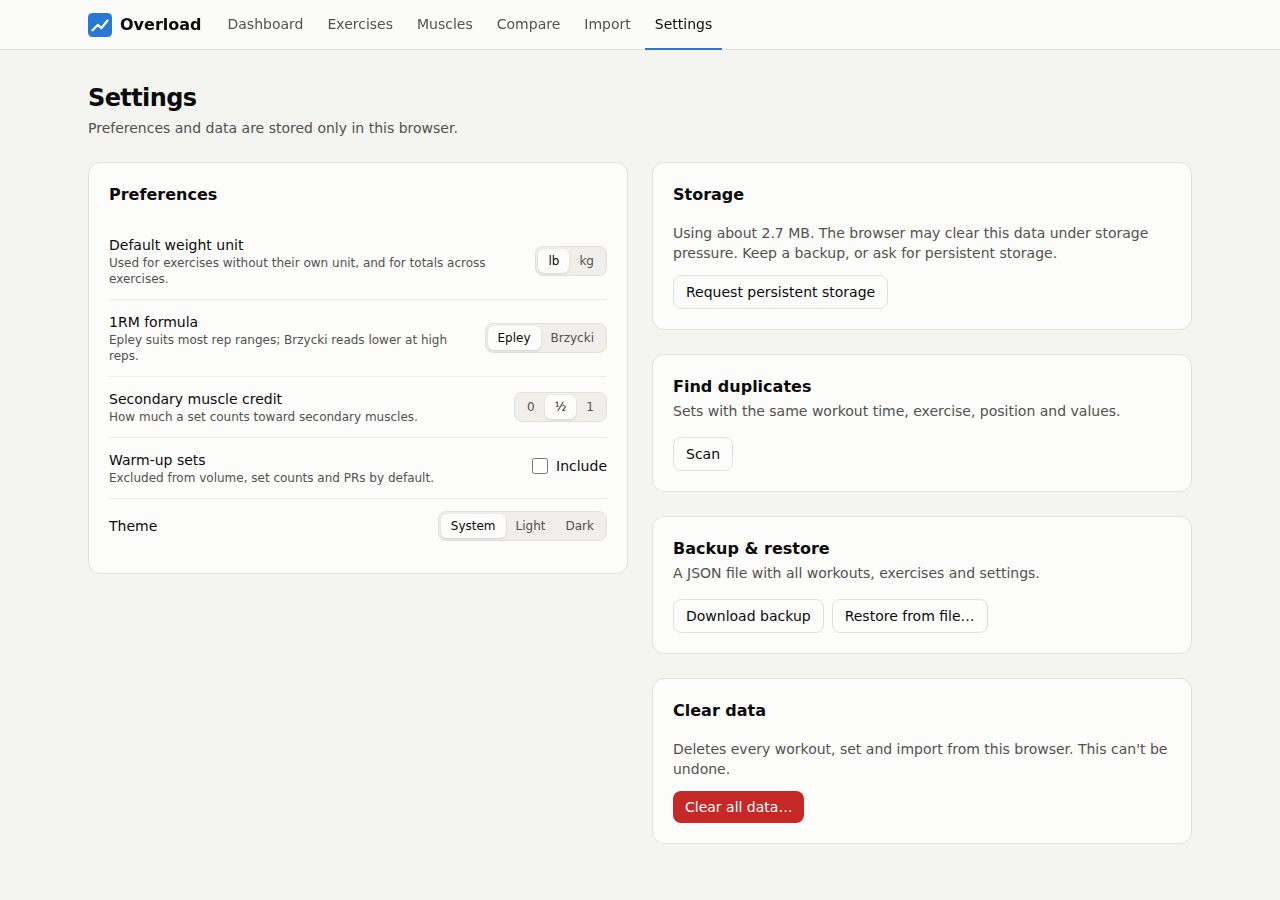
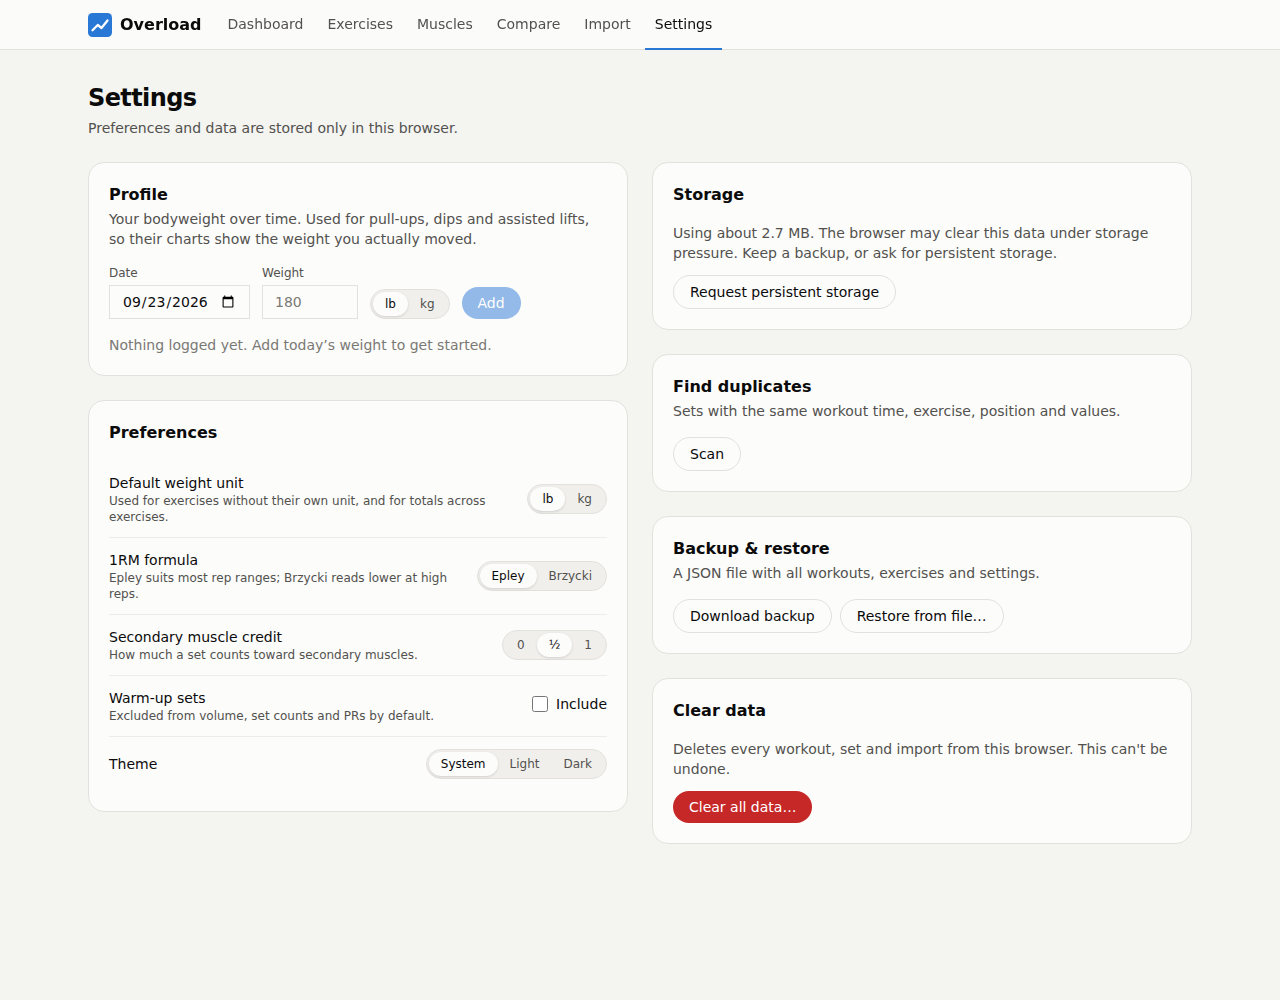
Stop mobile side-scroll, round the UI, move bodyweight into a Profile section
Three fixes:

- Dashboard and Import scrolled sideways on a phone. Two separate causes, both found by
  measuring rather than guessing: grid and flex children default to min-width:auto, so a
  card holding a wide table refused to shrink and pushed the page out; and a screen-reader
  column label, positioned absolutely with no positioned ancestor, escaped its table's
  scroll container and widened the document. Cards are now min-w-0 and the table scroller
  establishes a containing block. Compare overflowed by a few pixels for the same
  min-width reason and is fixed too. All six pages now sit at exactly 390px on a phone.
- Rounder throughout: cards, tiles, dialogs and callouts take a larger radius, and
  buttons, segmented controls, chips and form controls are pills.
- Bodyweight belongs to you rather than to any workout, so it has moved off the dashboard
  into a new Profile section at the top of Settings. The dashboard's stalled-lift list
  takes the full width it vacated.

Claude-Session: https://claude.ai/code/session_01AWoBy98a8NvHr3Bq7afczC

diff --git a/src/components/settings/ProfileCard.tsx b/src/components/settings/ProfileCard.tsx
@@ -1,22 +1,23 @@
 import { useState } from 'react';
-import { db } from '../db/db';
-import { deleteBodyweight, saveBodyweight } from '../db/repo';
-import { bodyweightChange, type BodyweightEntry } from '../domain/bodyweight';
-import { formatDate, toLocalString } from '../domain/dates';
-import type { Unit } from '../domain/types';
-import { formatNumber } from '../domain/units';
-import { useBodyweights, useSettings } from '../hooks/useData';
-import { SERIES_COLORS } from '../lib/colors';
-import { TrendChart } from './charts';
-import { Button, Card, Muted, Segmented, TextInput } from './ui';
+import { db } from '../../db/db';
+import { deleteBodyweight, saveBodyweight } from '../../db/repo';
+import { bodyweightChange, type BodyweightEntry } from '../../domain/bodyweight';
+import { formatDate, toLocalString } from '../../domain/dates';
+import type { Unit } from '../../domain/types';
+import { formatNumber } from '../../domain/units';
+import { useBodyweights, useSettings } from '../../hooks/useData';
+import { SERIES_COLORS } from '../../lib/colors';
+import { TrendChart } from '../charts';
+import { Button, Card, Muted, Segmented, TextInput } from '../ui';
 
 const today = () => toLocalString(new Date()).slice(0, 10);
 
 /**
- * Logging bodyweight is what lets pull-ups, dips and assisted work report the load
- * actually moved, instead of only the plate hanging off you.
+ * Bodyweight belongs to you rather than to any workout, so it lives in settings. It is
+ * what lets pull-ups, dips and assisted work report the load actually moved, instead of
+ * only the plate hanging off you.
  */
-export function BodyweightCard() {
+export function ProfileCard() {
   const log = useBodyweights();
   const settings = useSettings();
   const [date, setDate] = useState(today);
@@ -38,8 +39,8 @@ export function BodyweightCard() {
 
   return (
     <Card
-      title="Bodyweight"
-      subtitle="Used for pull-ups, dips and assisted lifts, so their charts show the weight you actually moved."
+      title="Profile"
+      subtitle="Your bodyweight over time. Used for pull-ups, dips and assisted lifts, so their charts show the weight you actually moved."
       actions={
         summary && (
           <span className="tabular text-sm text-ink-2">

diff --git a/src/pages/DashboardPage.tsx b/src/pages/DashboardPage.tsx
@@ -1,7 +1,6 @@
 import { useMemo } from 'react';
 import { StackedBars } from '../components/charts';
 import { NoDataPage } from '../components/NoDataPage';
-import { BodyweightCard } from '../components/BodyweightCard';
 import { PrList } from '../components/PrList';
 import { StalledLifts } from '../components/StalledLifts';
 import { SampleDataBanner } from '../components/SampleDataBanner';
@@ -136,7 +135,7 @@ export default function DashboardPage() {
 
       <div className="grid items-start gap-6 lg:grid-cols-5">
         <Card
-          className="lg:col-span-3"
+          className="min-w-0 lg:col-span-3"
           title="Weekly training"
           subtitle={metric === 'volume' ? `Volume in ${unit}, assisted lifts excluded` : undefined}
           actions={
@@ -161,7 +160,11 @@ export default function DashboardPage() {
           />
         </Card>
 
-        <Card className="lg:col-span-2" title="Recent PRs" subtitle="Beats your previous best">
+        <Card
+          className="min-w-0 lg:col-span-2"
+          title="Recent PRs"
+          subtitle="Beats your previous best"
+        >
           <PrList
             prs={prs}
             limit={12}
@@ -171,16 +174,8 @@ export default function DashboardPage() {
         </Card>
       </div>
 
-      <div className="mt-6 grid items-start gap-6 lg:grid-cols-5">
-        <div className="lg:col-span-3">
-          <StalledLifts
-            lifts={stalled}
-            unitFor={(name) => exerciseUnit(exercises.get(name), unit)}
-          />
-        </div>
-        <div className="lg:col-span-2">
-          <BodyweightCard />
-        </div>
+      <div className="mt-6">
+        <StalledLifts lifts={stalled} unitFor={(name) => exerciseUnit(exercises.get(name), unit)} />
       </div>
     </>
   );

diff --git a/src/pages/SettingsPage.tsx b/src/pages/SettingsPage.tsx
@@ -4,6 +4,7 @@ import { ClearDataCard } from '../components/settings/ClearDataCard';
 import { DuplicatesCard } from '../components/settings/DuplicatesCard';
 import { FormatsCard } from '../components/settings/FormatsCard';
 import { PreferencesCard } from '../components/settings/PreferencesCard';
+import { ProfileCard } from '../components/settings/ProfileCard';
 import { StorageCard } from '../components/settings/StorageCard';
 import { PageHeader } from '../components/ui';
 
@@ -15,8 +16,11 @@ export default function SettingsPage() {
         subtitle="Preferences and data are stored only in this browser."
       />
       <div className="grid items-start gap-6 lg:grid-cols-2">
-        <PreferencesCard />
-        <div className="space-y-6">
+        <div className="min-w-0 space-y-6">
+          <ProfileCard />
+          <PreferencesCard />
+        </div>
+        <div className="min-w-0 space-y-6">
           <StorageCard />
           <FormatsCard />
           <AliasesCard />

diff --git a/src/components/ui/Feedback.tsx b/src/components/ui/Feedback.tsx
@@ -73,7 +73,7 @@ export function Callout({
   return (
     <div
       role={tone === 'critical' || tone === 'warning' ? 'alert' : 'status'}
-      className={cx('flex gap-3 rounded-lg border p-3 text-sm', t.box, className)}
+      className={cx('flex gap-3 rounded-xl border p-3 text-sm', t.box, className)}
     >
       <StatusIcon tone={tone} className={cx('mt-0.5', t.icon)} />
       <div className="min-w-0">
@@ -86,7 +86,7 @@ export function Callout({
 
 export function EmptyState({ title, children }: { title: string; children?: ReactNode }) {
   return (
-    <div className="rounded-xl border border-dashed border-border bg-surface p-10 text-center">
+    <div className="rounded-2xl border border-dashed border-border bg-surface p-10 text-center">
       <h2 className="text-base font-semibold text-ink">{title}</h2>
       {children && <div className="mt-2 text-sm text-ink-2">{children}</div>}
     </div>

diff --git a/src/components/ui/Segmented.tsx b/src/components/ui/Segmented.tsx
@@ -21,7 +21,7 @@ export function Segmented<T extends string>({
     <div
       role="radiogroup"
       aria-label={label}
-      className="inline-flex flex-wrap rounded-lg border border-border bg-surface-2 p-0.5"
+      className="inline-flex flex-wrap rounded-full border border-border bg-surface-2 p-0.5"
     >
       {options.map((o) => (
         <button
@@ -34,7 +34,7 @@ export function Segmented<T extends string>({
             onChange(o.id);
           }}
           className={cx(
-            'focus-ring rounded-md px-2.5 py-1 text-xs font-medium transition-colors disabled:opacity-40',
+            'focus-ring rounded-full px-3 py-1 text-xs font-medium transition-colors disabled:opacity-40',
             value === o.id ? 'bg-surface text-ink shadow-sm' : 'text-ink-2 hover:text-ink',
           )}
         >

diff --git a/src/components/ui/buttonClasses.ts b/src/components/ui/buttonClasses.ts
@@ -12,7 +12,7 @@ const VARIANTS: Record<ButtonVariant, string> = {
 /** Class list for button-looking elements that aren't <button> (e.g. file-picker labels). */
 export function buttonClasses(variant: ButtonVariant = 'secondary', className?: string): string {
   return cx(
-    'focus-ring inline-flex cursor-pointer items-center justify-center gap-1.5 rounded-lg px-3 py-1.5 text-sm font-medium transition-colors',
+    'focus-ring inline-flex cursor-pointer items-center justify-center gap-1.5 rounded-full px-4 py-1.5 text-sm font-medium transition-colors',
     'disabled:cursor-not-allowed disabled:opacity-50',
     VARIANTS[variant],
     className,

diff --git a/src/components/ui/DataTable.tsx b/src/components/ui/DataTable.tsx
@@ -25,8 +25,10 @@ export function DataTable<T>({
   stickyHeader?: boolean;
   empty?: ReactNode;
 }) {
+  // `relative` keeps absolutely positioned cell content (screen-reader labels) inside the
+  // scroller; without it they escape to the page and widen it.
   return (
-    <div className="overflow-x-auto">
+    <div className="relative overflow-x-auto">
       <table className="w-full text-sm" style={minWidth ? { minWidth } : undefined}>
         <thead className={cx(stickyHeader && 'sticky top-0 bg-surface')}>
           <tr className="border-b border-border text-left text-xs text-ink-2">

diff --git a/src/components/ui/FilePicker.tsx b/src/components/ui/FilePicker.tsx
@@ -60,7 +60,7 @@ export function FileDropzone({
         if (file) picker.onFile(file);
       }}
       className={cx(
-        'flex cursor-pointer flex-col items-center justify-center rounded-lg border-2 border-dashed px-6 py-10 text-center transition-colors focus-within:border-accent',
+        'flex cursor-pointer flex-col items-center justify-center rounded-2xl border-2 border-dashed px-6 py-10 text-center transition-colors focus-within:border-accent',
         dragging ? 'border-accent bg-accent/5' : 'border-border hover:bg-surface-2',
       )}
     >

diff --git a/src/components/MuscleEditor.tsx b/src/components/MuscleEditor.tsx
@@ -62,7 +62,7 @@ export function MuscleEditor({
               }}
               aria-label={`${m}: ${role}`}
               className={cx(
-                'rounded-md border px-2 py-1 text-xs font-medium transition-colors',
+                'rounded-full border px-2.5 py-1 text-xs font-medium transition-colors',
                 role === 'primary' && 'border-accent bg-accent text-accent-ink',
                 role === 'secondary' && 'border-accent bg-accent/10 text-ink',
                 role === 'none' && 'border-border text-ink-2 hover:bg-surface-2',

diff --git a/src/components/ui/ConfirmDialog.tsx b/src/components/ui/ConfirmDialog.tsx
@@ -33,7 +33,7 @@ export function ConfirmDialog({
         e.preventDefault();
         onCancel();
       }}
-      className="m-auto w-[min(28rem,calc(100vw-2rem))] rounded-xl border border-border bg-surface p-5 text-ink backdrop:bg-black/50"
+      className="m-auto w-[min(28rem,calc(100vw-2rem))] rounded-2xl border border-border bg-surface p-5 text-ink backdrop:bg-black/50"
     >
       <h2 className="text-base font-semibold">{title}</h2>
       {children && <div className="mt-2 text-sm text-ink-2">{children}</div>}

diff --git a/src/components/ui/Card.tsx b/src/components/ui/Card.tsx
@@ -15,7 +15,9 @@ export function Card({
   className,
 }: HeaderProps & { children: ReactNode; className?: string }) {
   return (
-    <section className={cx('rounded-xl border border-border bg-surface p-4 sm:p-5', className)}>
+    <section
+      className={cx('min-w-0 rounded-2xl border border-border bg-surface p-4 sm:p-5', className)}
+    >
       {(title ?? actions) && (
         <header className="mb-4 flex flex-wrap items-start justify-between gap-3">
           <div className="min-w-0">

diff --git a/src/components/muscles/RisingMuscles.tsx b/src/components/muscles/RisingMuscles.tsx
@@ -55,7 +55,7 @@ export function RisingMuscles({
                   }}
                   aria-pressed={isSelected}
                   className={cx(
-                    'focus-ring w-full rounded-xl border p-3 text-left transition-colors',
+                    'focus-ring w-full rounded-2xl border p-3 text-left transition-colors',
                     isSelected
                       ? 'border-accent bg-accent/5'
                       : 'border-border bg-surface-2 hover:border-accent/50',
